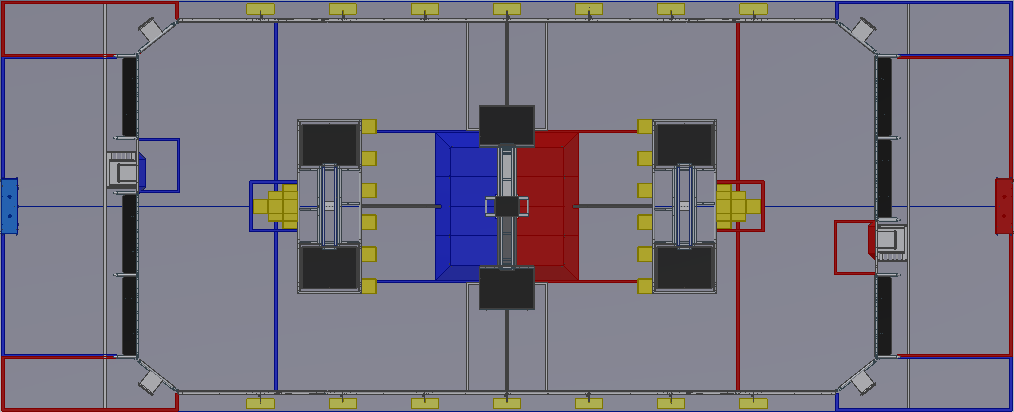
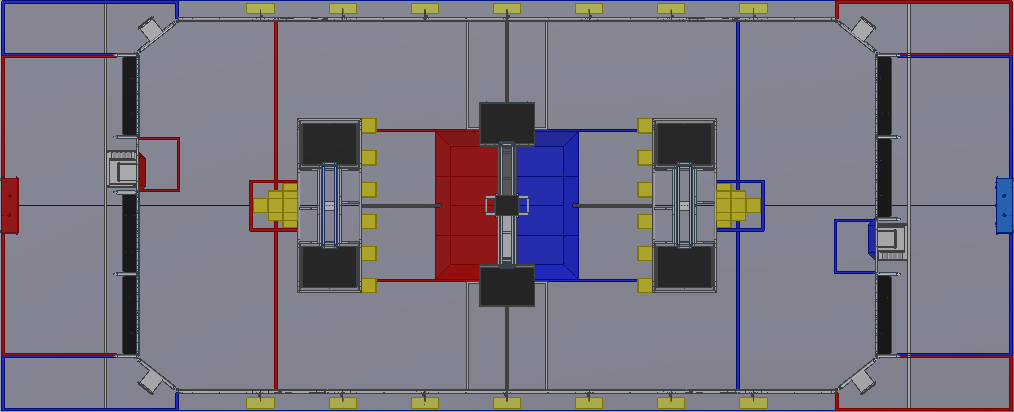
changed field flip

diff --git a/Motion Profiling 2018 Web App/script.js b/Motion Profiling 2018 Web App/script.js
@@ -1,5 +1,5 @@
 
-var ctx;
+
 var ftToPixelsScale = 14;
 var fieldWidth = 74; //in feet
 var fieldHeight = 30; //in feet
@@ -8,22 +8,33 @@ var height = fieldHeight * ftToPixelsScale; //in pixels
 var robotWidth = 40/12; //in feet
 var robotHeight = 35/12; //in feet
 var pointRadius = 5; //in pixels
-var kEpsilon = 1E-9; 
+
+var kEpsilon = 1E-9;
+
+var ctx;
 var image;
 var imageFlipped;
+
 var waypoints = [];
+
 var isFlipped = false;
-var startXY = [64, 16];
-var startX;
-var startY;
+var startPositions = {
+    "center": [10, 14],
+    "left": [10, 24],
+    "right": [10, 6],
+}
+var startPos;
+
+function chooseStart(position) {
+    startPos = startPositions[position];
+    updateStartPoint();
+}
+
 
 class Point {
 	constructor(x, y) {
 		this.x = x;
 		this.y = y;
-		/*this.vel = vel;
-		this.radius = radius;
-		this.desc = desc;*/
 	}
 
 	norm() {
@@ -203,49 +214,20 @@ function addPoint(cx, cy) {
 }
 function invertField() {
     if (!isFlipped) {
-        $('#field').addClass('invert_field');
+        ctx.drawImage(imageFlipped, 0, 0, width, height);
         isFlipped = true;
     }
     else{
-        $('#field').removeClass('invert_field');
+        ctx.drawImage(image, 0, 0, width, height);
         isFlipped = false;
     }
 }
 
-function centerStart() {
-    if(isFlipped){
-        startXY = [64.0, 16.0]
-    }else {
-        startXY = [10.0, 14.0];
-    }
-    startX = startXY[0];
-    startY = startXY[1];
-    updateStartPoint();
-}
 
-function leftStart() {
-    if(isFlipped){
-        startXY = [64.0, 6.0]
-    }else {
-        startXY = [10.0, 24.0];
-    }
-    startX = startXY[0];
-    startY = startXY[1];
-    updateStartPoint();
-}
-
-function rightStart() {
-    if(isFlipped){
-        startXY = [64.0, 24.0]
-    }else {
-        startXY = [10.0, 6.0];
-    }
-    startX = startXY[0];
-    startY = startXY[1];
-    updateStartPoint();
-}
 
 function updateStartPoint() {
+    startX = startPos[0];
+    startY = startPos[1];
     waypoints.push(new WayPoint(startX, startY, 0, 0, ""));
     $($('tbody').children('tr')[0]).find('.x').val(startX);
     $($('tbody').children('tr')[0]).find('.y').val(startY);
@@ -293,7 +275,12 @@ function addEventListeners() {
 
 function update() {
     ctx.clearRect(0, 0, width, height);
-    ctx.drawImage(image, 0, 0, width, height);
+    if(isFlipped) {
+        ctx.drawImage(imageFlipped, 0, 0, width, height);
+
+    } else {
+        ctx.drawImage(image, 0, 0, width, height);
+    }
     waypoints = [];
     $('tbody').children('tr').each(function() {
         var row = $(this);
@@ -332,6 +319,8 @@ function init() {
     ctx.fillStyle="#FF0000";
     image = new Image();
     image.src = 'PowerUpField.PNG';
+    imageFlipped = new Image();
+    imageFlipped.src = 'PowerUpFieldReversed.PNG';
     image.onload = function(){
         ctx.drawImage(image, 0, 0, width, height);
         var field = document.getElementById('field');

diff --git a/Motion Profiling 2018 Web App/index.html b/Motion Profiling 2018 Web App/index.html
@@ -23,9 +23,9 @@
     <div class="button_container">
         <button onclick="saveConfiguration()">Save Configuration</button>
         <button onclick="invertField()">Invert Field</button>
-        <button onclick="leftStart()">Left Auto</button>
-        <button onclick="centerStart()">Center Auto</button>
-        <button onclick="rightStart()">Right Auto</button>
+        <button onclick="chooseStart('left')">Left Auto</button>
+        <button onclick="chooseStart('center')">Center Auto</button>
+        <button onclick="chooseStart('right')">Right Auto</button>
     </div>
     <table>
         <thead>

diff --git a/Motion Profiling 2018 Web App/main.css b/Motion Profiling 2018 Web App/main.css
@@ -36,9 +36,6 @@ button {
     margin-left: 5px;
 }
 
-.invert_field {
-    transform: rotate(180deg);
-}
 
 .button_container {
     margin: 10px;
